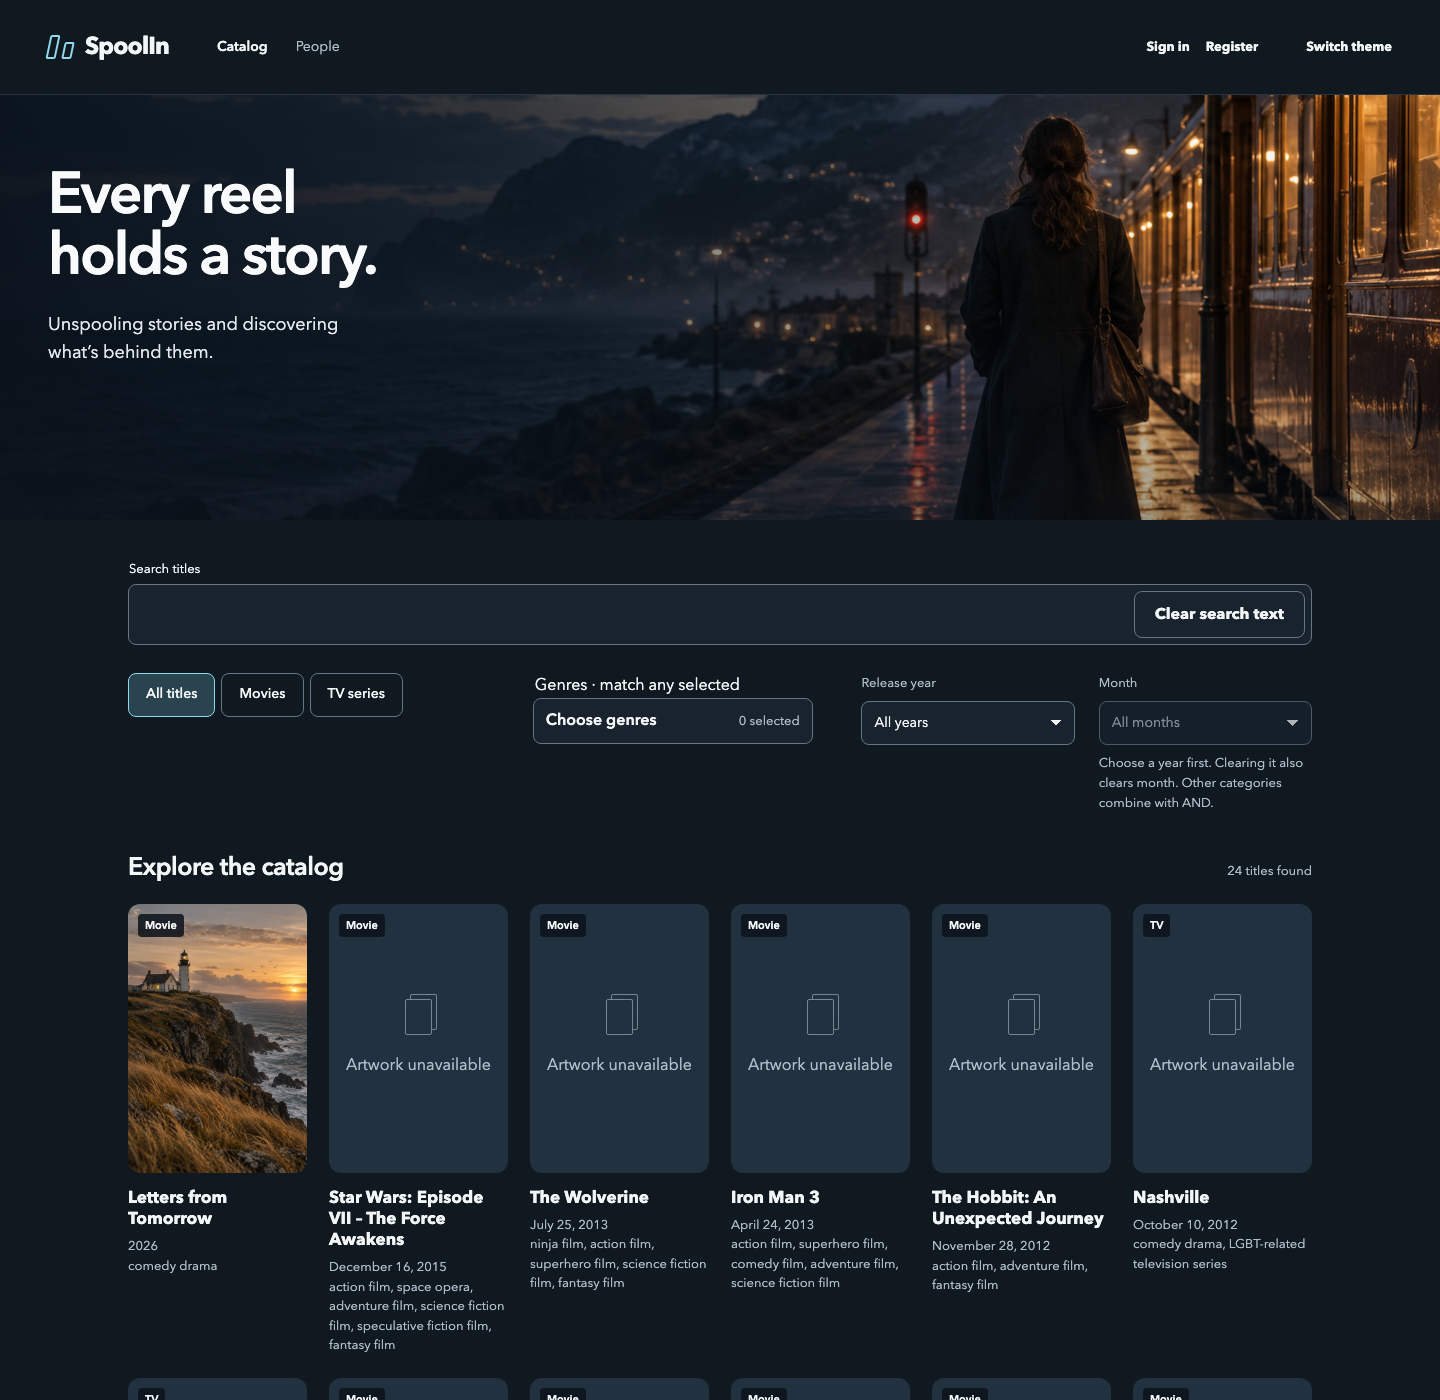
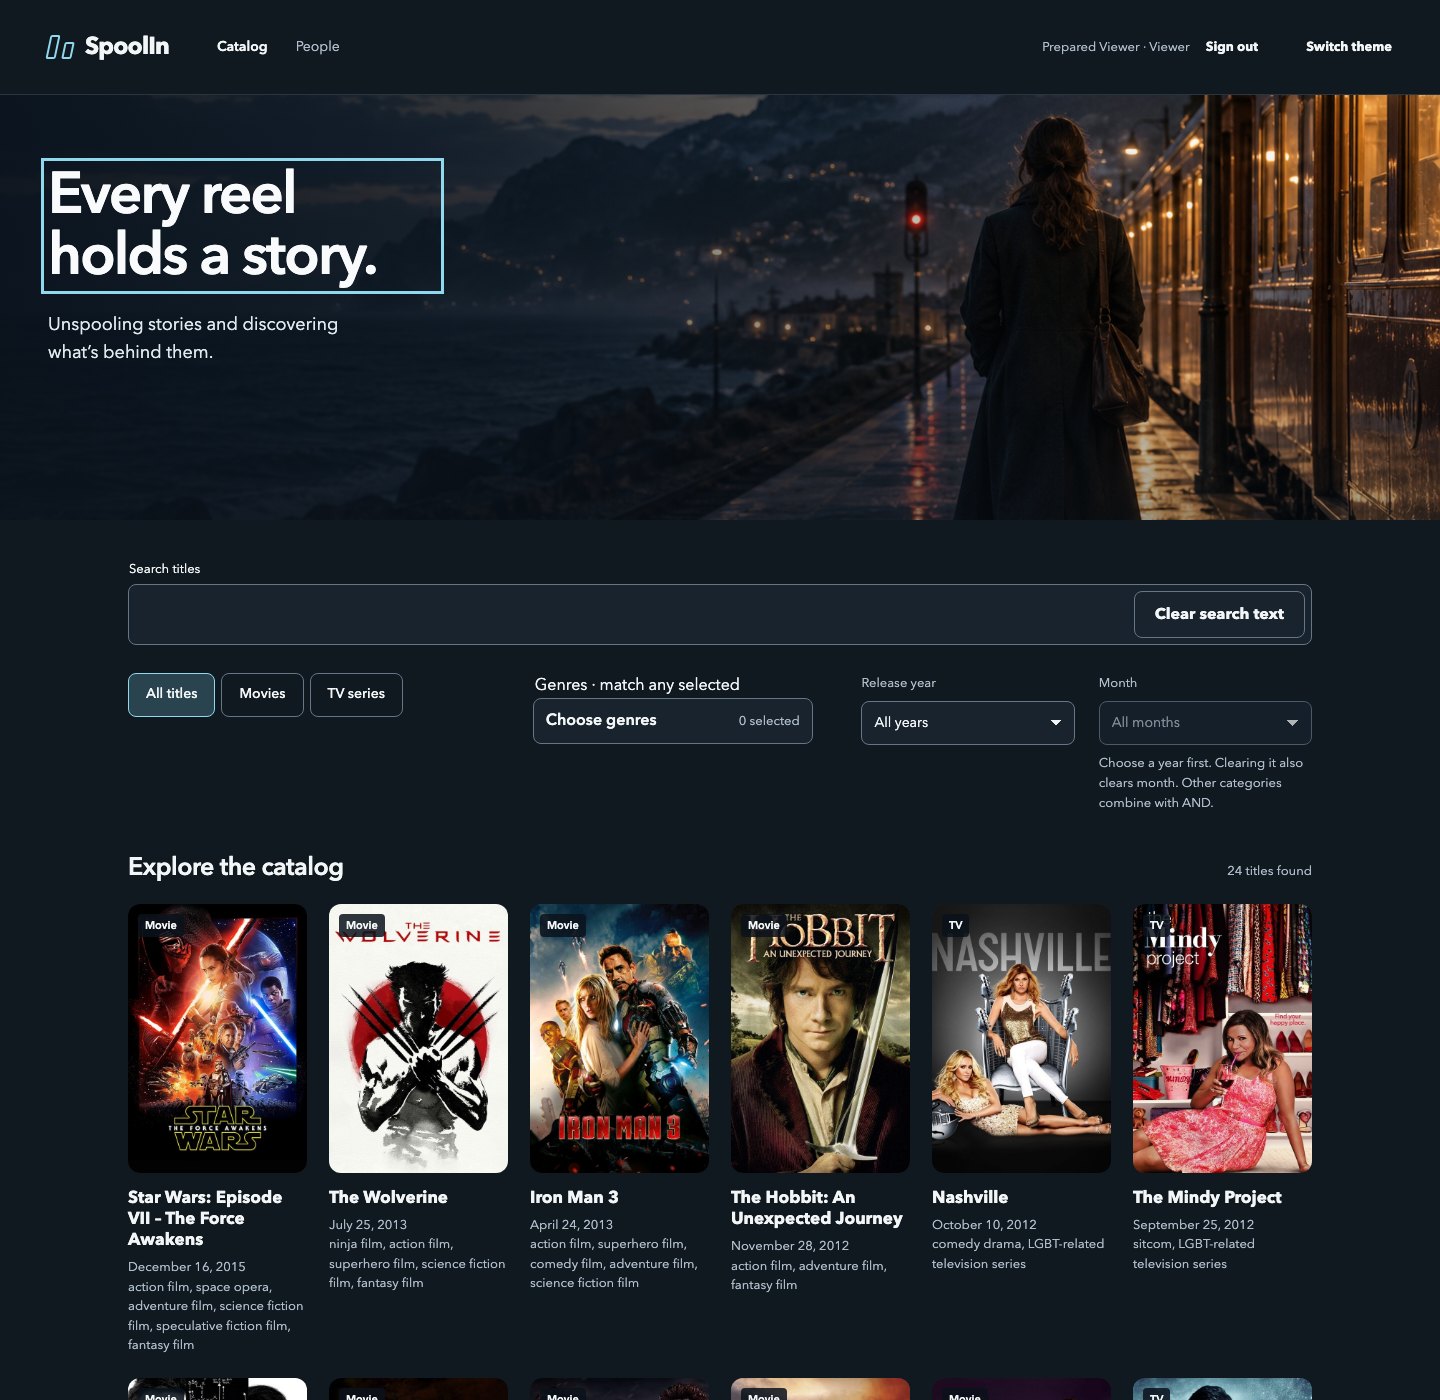
Document the updated real seed catalog with current screenshots

diff --git a/README.md b/README.md
@@ -17,6 +17,7 @@ SpoolIn takes its name from the spool that holds a length of film. Unspooling re
   - [Ubuntu Linux](#ubuntu-linux)
   - [Download SpoolIn](#download-spoolin)
   - [Start and sign in](#start-and-sign-in)
+  - [Seeded catalog](#seeded-catalog)
   - [Everyday commands](#everyday-commands)
   - [Troubleshooting](#troubleshooting)
   - [Verification limits](#verification-limits)
@@ -212,10 +213,10 @@ mkdir -p ~/projects
 cd ~/projects
 git clone https://github.com/okfriansyah-moh/spoolIn.git
 cd spoolIn
-git switch codex/remote-acceptance-closure
+git switch main
 ```
 
-The `codex/remote-acceptance-closure` branch includes the local setup helpers used here. `git clone` creates the `spoolIn` folder. You only need it once. If you already have this repository, open its folder with `cd` and continue. Every `make local-*` command below runs from the folder containing `Makefile`.
+The `main` branch includes the local setup helpers and packaged catalog described here. `git clone` creates the `spoolIn` folder. You only need it once. If you already have this repository, open its folder with `cd` and continue. Every `make local-*` command below runs from the folder containing `Makefile`.
 
 ### Start and sign in
 
@@ -277,7 +278,47 @@ Firefox provides the same certificate import route on Windows, macOS, and Linux.
 
 Local certificates expire after 365 days. Renewal needs manual attention; don't delete valued data just to renew a certificate. If you reset the installation, it creates a new local CA, so remove the old SpoolIn local authority from Firefox and repeat the import. Remove that authority when you're finished using this local installation.
 
-Seed data provides 100 movies and 100 TV entries, plus people, genres, and credits for browsing. The frozen package includes a genuine poster for every title and records each poster's public source link. Setup imports those local files through Media; startup does not contact external data providers. Changes you make locally stay in Docker volumes across normal stops and restarts. The [stakeholder guide](#use-spoolin) explains the first journeys to try.
+### Seeded catalog
+
+A fresh installation loads the `public-pages-2026-10-v2` package:
+
+| Included data | Count |
+| --- | ---: |
+| Movies | 100 |
+| TV series | 100 |
+| Packaged posters | 200, one for each title |
+| Shared people | 1,213 |
+| Credits | 1,475 |
+| Genres | 165 |
+| Credit roles | 4 |
+
+These are real films, series, and credited people. The package includes original factual synopses, release dates at their known precision, genres, and available language, country, and runtime information. Unknown information stays unknown; a TV series' total running time isn't presented as an episode runtime. Credits reflect the packaged selection and aren't complete cast lists or filmographies.
+
+Structured facts come from Wikidata, with enrichment and posters collected from public TMDB pages. Metadata and artwork source links are recorded separately. Each title's poster attribution links to its source; supplied creator or license details appear when available. Wikidata's CC0 metadata license does not grant rights to the posters, and the package makes no open-license claim for unspecified artwork rights.
+
+The [seed manifest](data/seed/manifest.json) records the title identities, metadata, poster files, hashes, and attribution. The [public-page source ledger](data/seed/sources/tmdb-pages.json) records the collected sources. Preparation downloads are already packaged in the repository: startup reads local files through Media and doesn't request provider APIs, source accounts, or API keys. The first Docker build still needs internet access to download toolchains and dependencies.
+
+#### Explore the loaded data
+
+1. In **Catalog**, search for `Star Wars` and open **Star Wars: Episode VII – The Force Awakens**. Its details show the packaged poster, release information, synopsis, credits, and poster source link.
+
+![Seeded Star Wars The Force Awakens movie details with its genuine poster and TMDB artwork attribution](docs/assets/spoolin/seed-movie.png)
+
+*Movie example: a real seeded title and its packaged poster, viewed in the running application.*
+
+2. Return to **Catalog**, choose **TV series**, and search for `Nashville`. Open its details to see the TV metadata, credits, poster, and source link. TV records remain read-only in movie management.
+
+![Seeded Nashville TV series details with its genuine poster, series metadata, and TMDB artwork attribution](docs/assets/spoolin/seed-tv.png)
+
+*TV example: the seeded series has its own artwork and metadata; unknown episode runtime remains explicit.*
+
+#### Updating an existing local catalog
+
+After pulling the latest `main`, run `make local-setup` and `make local-start` as usual. Setup preserves local credentials. The seed refresh retains stable record IDs and preserves user edits, credits, uploads, explicit artwork removals, archives, and deleted-record markers. Interrupted imports can resume, and repeating startup doesn't duplicate the seed records.
+
+An existing installation can contain more or fewer active titles than the fresh package because of local creations, archives, and deletions. Your own artwork can also take precedence over a packaged poster. Don't use `make local-reset` to obtain the updated seed: it deletes your stored data.
+
+The [seed upgrade record](docs/release/seed-public-pages-verification.md) documents the earlier fresh-load, preservation, and recovery checks. The counts above describe the frozen package, not a new verification run. Continue with the [stakeholder guide](#use-spoolin) for editing examples.
 
 ### Everyday commands
 
@@ -347,7 +388,7 @@ Platform instructions follow the linked vendor installation guides. Successful t
 
 ## Use SpoolIn
 
-The screenshots show fictional walkthrough records alongside the seeded catalog. The lighthouse poster was uploaded through the application.
+The catalog screenshots and seeded movie/TV examples show the updated real catalog with packaged posters. The later editing walkthrough uses fictional records so you can try changes without altering a seeded title. Its lighthouse poster was uploaded through the application.
 
 ### Choose the right account
 
@@ -374,7 +415,7 @@ For example, find a seeded film and explore its credits:
 
 ![Signed-in Viewer searching Star Wars, with Viewer role and Catalog and People navigation visible](docs/assets/spoolin/viewer-catalog.png)
 
-*Viewer example: the header identifies the account role. This search shows a seeded movie; this screenshot predates the packaged seed posters. Current seed titles include posters and source links.*
+*Viewer example: the signed-in account searches the updated seed catalog, with packaged posters visible in the results.*
 
 Filters help narrow the catalog. If no titles match, clear the search or broaden the filters to return to browsing.
 
